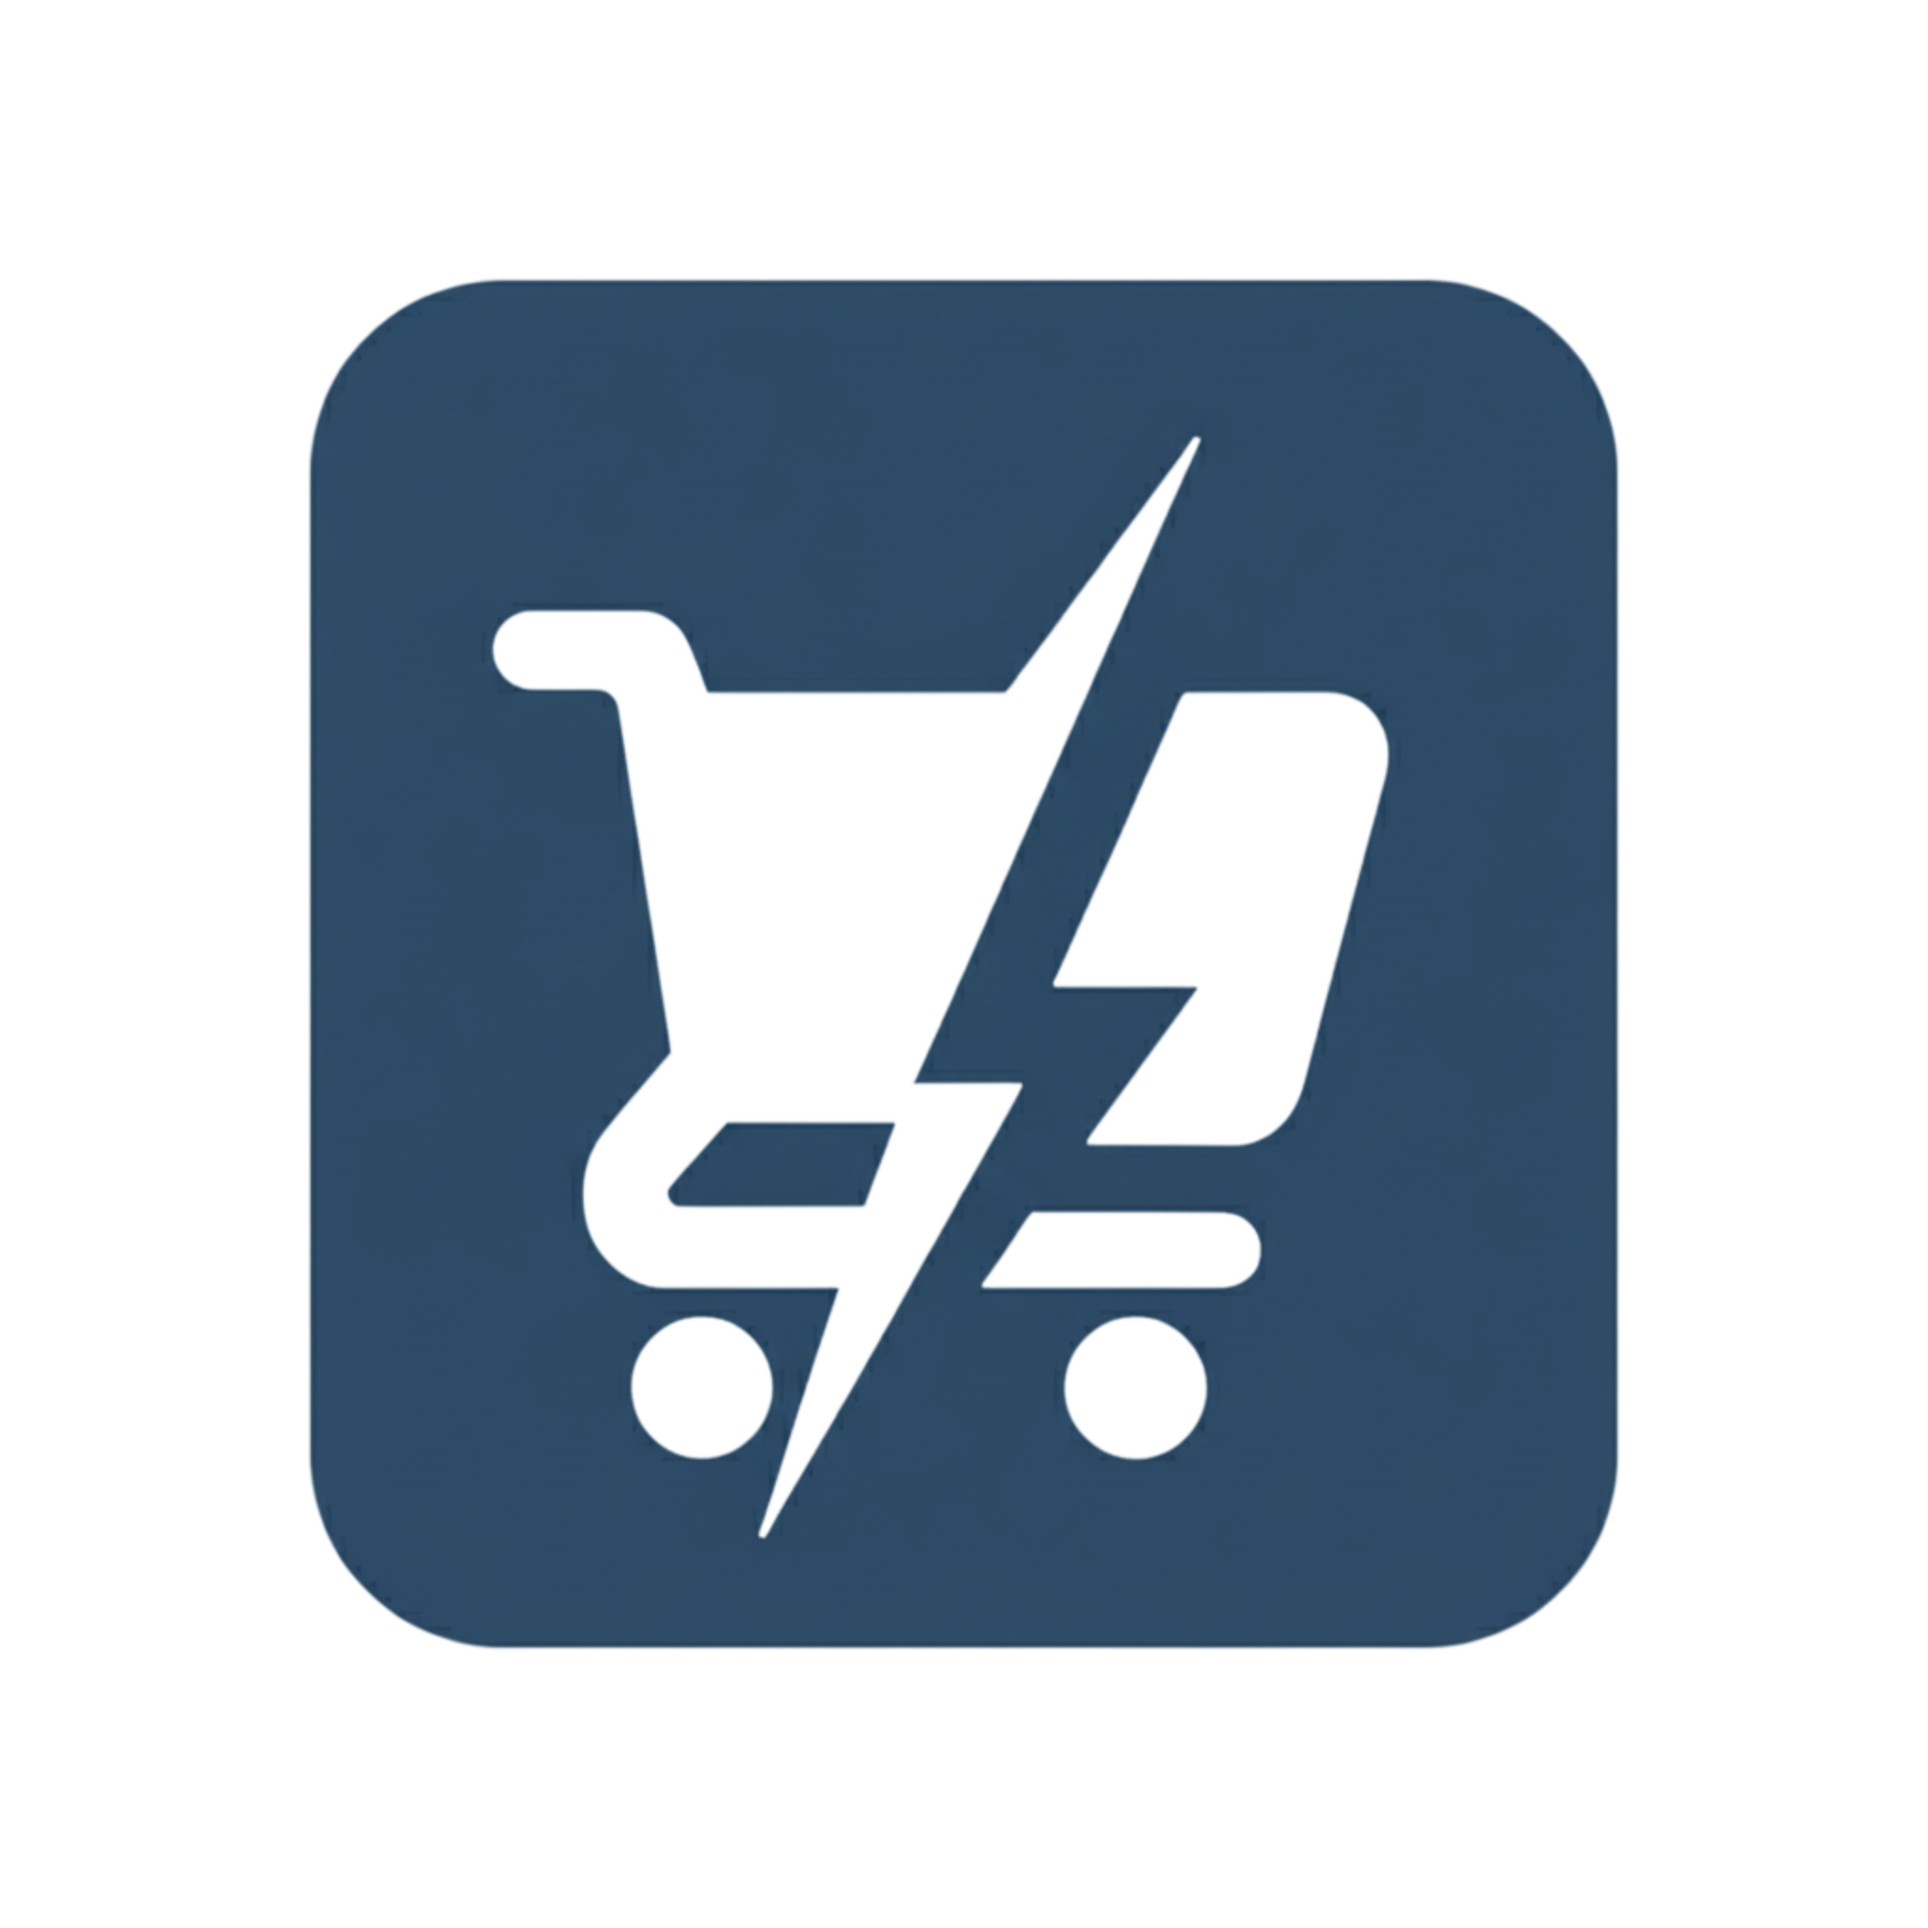
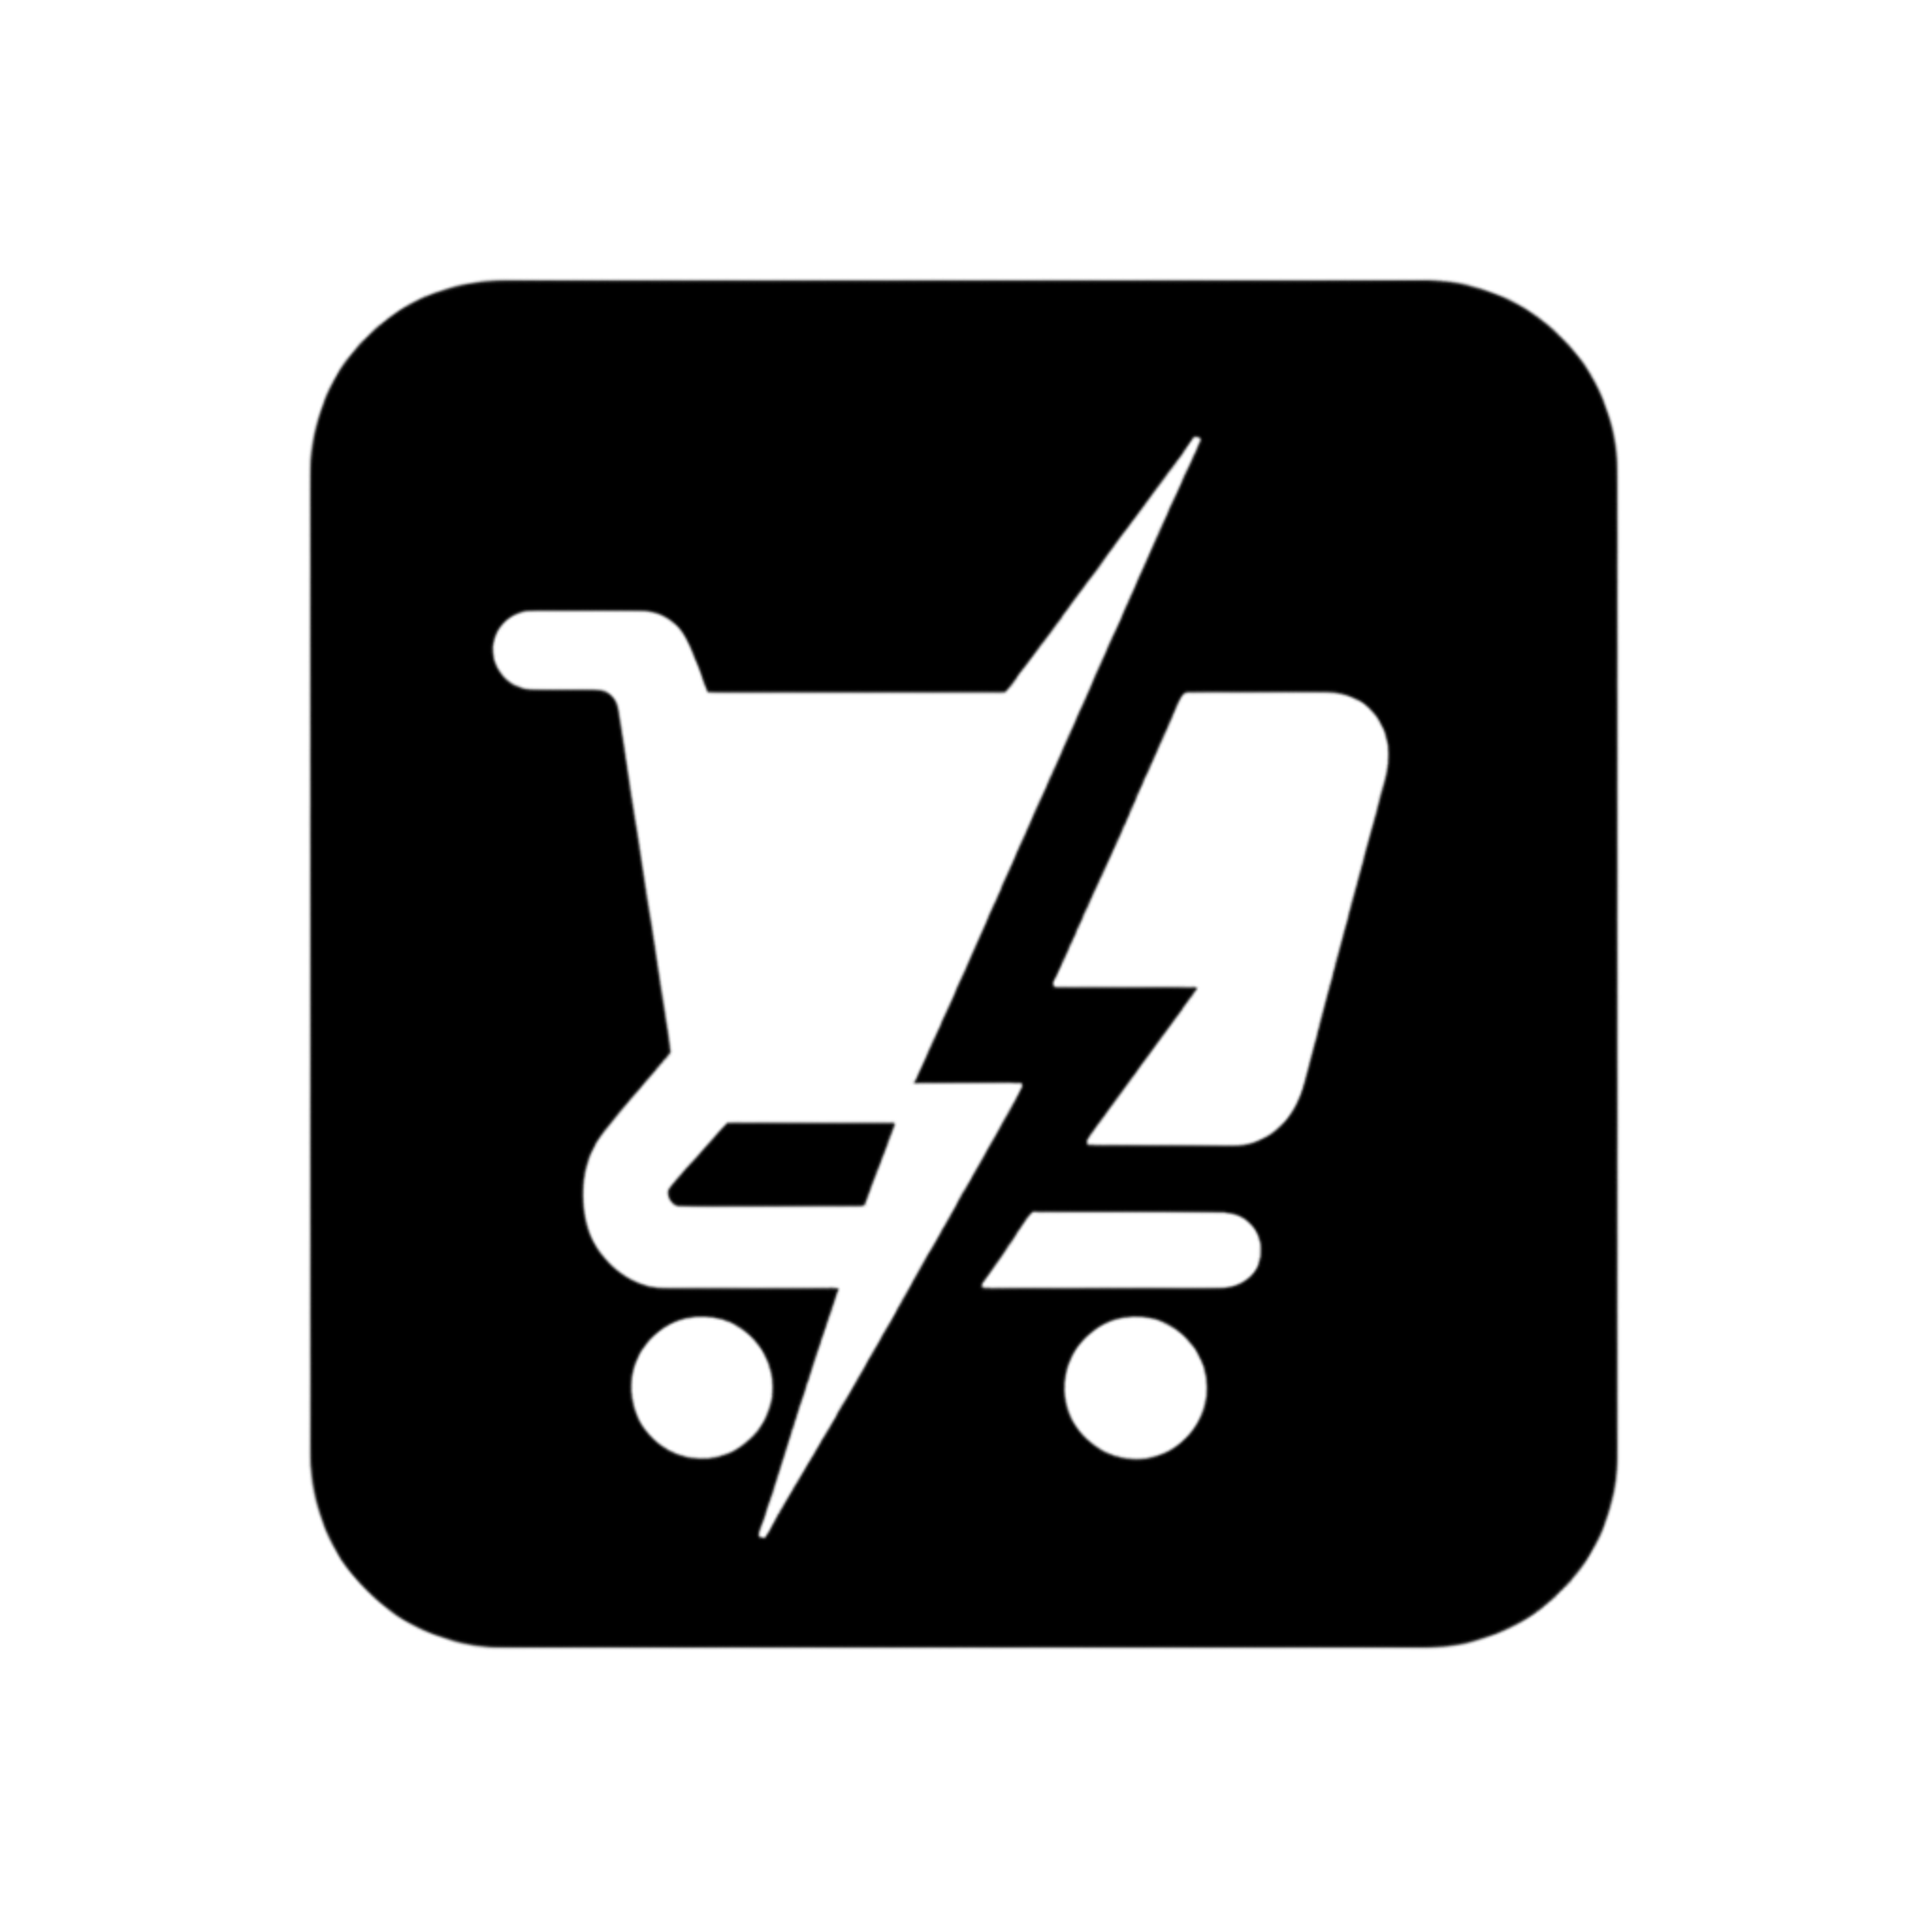
checkpoint

diff --git a/frontend1/src/pages/HomePage.tsx b/frontend1/src/pages/HomePage.tsx
@@ -91,10 +91,10 @@ const HomePage = () => {
           </h2>
           <p className="text-lg mt-4">Short answer: <span className="font-bold">25-32%</span>. Most common answer: <span className="font-bold">Who cares?</span></p>
         </div>
-        <div className="grid grid-cols-1 md:grid-cols-2 gap-12 text-lg text-gray-700">
+        <div className="grid grid-cols-1 md:grid-cols-2 gap-12 text-lg ">
           <div className="flex flex-col gap-4">
             <p>
-              <span className="font-bold">I care. </span>And if you're like me then you care too. If you're like me, you've considered the dollar value of a rewards point. Or debated ply count vs kilogram weight of toilet paper. 
+              <span className="font-bold">I care. </span>And if you're like me then you care too. If you're like me, you've considered the dollar value of a rewards point. Or weighed the merits of ply count versus weight value of toilet paper.
             </p>
             <p className="font-bold">
               If you're like me then SplitCart was built for you. I know this to be a fact because I built SplitCart for me.
@@ -105,7 +105,7 @@ const HomePage = () => {
           </div>
           <div className="flex flex-col gap-4">
             <p>
-              I've collected the prices. I've mathematically calculated the best two, three, or four store combination, and I've removed as much hassle as humanly possible.
+              I've collected the prices. I've mathematically calculated the best two, three, or four store combinations, and I've removed as much hassle as humanly possible.
             </p>
             <p>
               So, <span className="font-bold bg-yellow-200 px-0.5 py-1 rounded">welcome aboard fellow bargain hunter!</span> I hope SplitCart can be as useful to you as it is to me.

diff --git a/frontend1/src/App.tsx b/frontend1/src/App.tsx
@@ -17,7 +17,7 @@ import SignupPage from "./pages/SignupPage";
 import { useAuth } from "@/context/AuthContext";
 import CategoryBar from "./components/CategoryBar";
 import Footer from './components/Footer';
-import splitcartLogo from "./assets/splitcart_symbol_v6_black.png";
+import splitcartLogo from "./assets/splitcart_symbol_v6.png";
 import './App.css';
 
 const App = () => {
@@ -81,7 +81,7 @@ const Layout = () => {
         <div className="flex h-20 items-center justify-between gap-4 px-4 sm:px-6 lg:px-8">
           <div className="flex items-center gap-6">
             <a href="/" className="flex items-center space-x-2">
-              <img src={splitcartLogo} alt="SplitCart Logo" className="h-8 w-8" />
+              <img src={splitcartLogo} alt="SplitCart Logo" className="h-16 w-16" />
               <span className="font-bold text-2xl">SplitCart</span>
             </a>
           </div>
